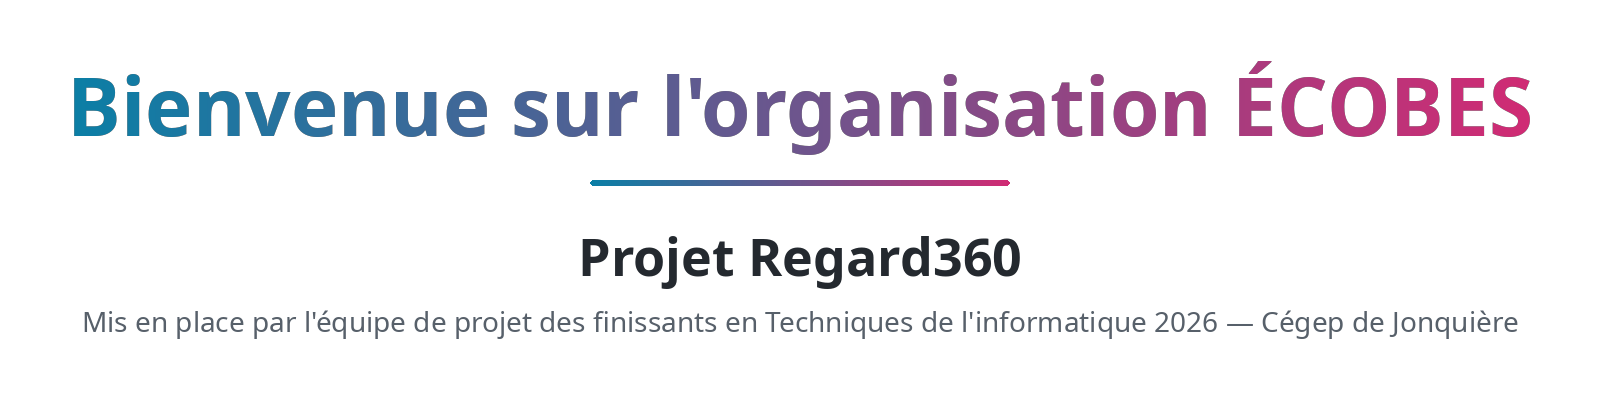
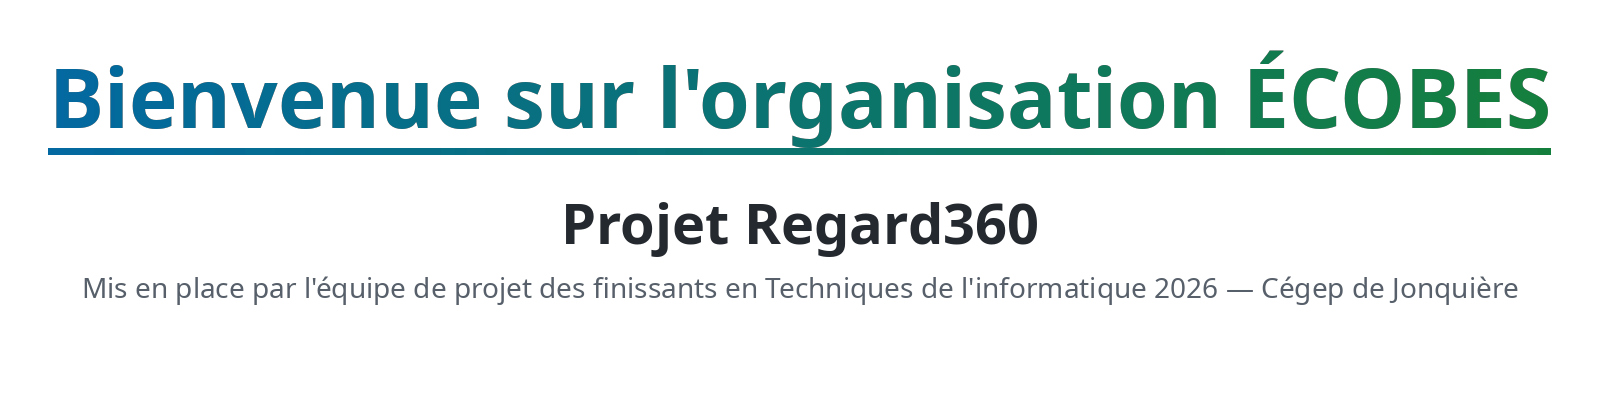
.

Changed region(s): [[0.0312, 0.1238, 0.9688, 0.3714], [0.0312, 0.4024, 0.9688, 0.7119], [0.0312, 0.7429, 0.9688, 0.8048]]

diff --git a/profile/README.md b/profile/README.md
@@ -16,10 +16,10 @@ Ici, vous trouverez les différents projets qui font partie de cette organisatio
 
 <div align="center">
 
-<a href="https://github.com/CDI-Ecobes/Regard360_Frontend"><img alt="Consulter l'application" src="https://img.shields.io/badge/Application-0fb6d6?style=for-the-badge"></a>
-<a href="https://github.com/CDI-Ecobes/Regard360_Scripts_R"><img alt="Voir comment les données sont traitées" src="https://img.shields.io/badge/Traitement_des_donn%C3%A9es-6e5ca8?style=for-the-badge"></a>
-<a href="https://github.com/CDI-Ecobes/Documentation_Regard360/wiki"><img alt="Lire la documentation, par où commencer" src="https://img.shields.io/badge/Documentation-b84a90?style=for-the-badge"></a>
-<a href="https://github.com/CDI-Ecobes/dev_projet_r360"><img alt="Suivre le travail de l'équipe de projet" src="https://img.shields.io/badge/%C3%89quipe_de_projet-f4569d?style=for-the-badge"></a>
+[![Consulter l'application](https://img.shields.io/badge/Application-0fb6d6?style=for-the-badge)](https://github.com/CDI-Ecobes/Regard360_Frontend)
+[![Voir comment les données sont traitées](https://img.shields.io/badge/Traitement_des_donn%C3%A9es-6e5ca8?style=for-the-badge)](https://github.com/CDI-Ecobes/Regard360_Scripts_R)
+[![Lire la documentation, par où commencer](https://img.shields.io/badge/Documentation-b84a90?style=for-the-badge)](https://github.com/CDI-Ecobes/Documentation_Regard360/wiki)
+[![Suivre le travail de l'équipe de projet](https://img.shields.io/badge/%C3%89quipe_de_projet-f4569d?style=for-the-badge)](https://github.com/CDI-Ecobes/dev_projet_r360)
 
 </div>
 
@@ -27,32 +27,13 @@ Ici, vous trouverez les différents projets qui font partie de cette organisatio
 
 <h2 align="center">Les dépôts du projet</h2>
 
-<table width="100%">
-  <thead>
-    <tr>
-      <th width="32%" align="left">Dépôt</th>
-      <th align="left">Rôle</th>
-    </tr>
-  </thead>
-  <tbody>
-    <tr>
-      <td><a href="https://github.com/CDI-Ecobes/Regard360_Frontend"><strong>Regard360_Frontend</strong></a></td>
-      <td>L'application Shiny — la branche <code>Dev</code> se déploie automatiquement en environnement de test</td>
-    </tr>
-    <tr>
-      <td><a href="https://github.com/CDI-Ecobes/Regard360_Scripts_R"><strong>Regard360_Scripts_R</strong></a></td>
-      <td>Les scripts R qui préparent et transforment les données de l'application</td>
-    </tr>
-    <tr>
-      <td><a href="https://github.com/CDI-Ecobes/Documentation_Regard360"><strong>Documentation_Regard360</strong></a></td>
-      <td>La documentation du projet — elle se trouve dans l'onglet Wiki du dépôt</td>
-    </tr>
-    <tr>
-      <td><a href="https://github.com/CDI-Ecobes/dev_projet_r360"><strong>dev_projet_r360</strong></a></td>
-      <td>Le dépôt de travail de l'équipe DICJ et sa nomenclature des branches</td>
-    </tr>
-  </tbody>
-</table>
+[![Regard360_Frontend — L'application Shiny](assets/cartes/carte-frontend.png)](https://github.com/CDI-Ecobes/Regard360_Frontend)
+
+[![Regard360_Scripts_R — Les scripts R de traitement des données](assets/cartes/carte-scripts.png)](https://github.com/CDI-Ecobes/Regard360_Scripts_R)
+
+[![Documentation_Regard360 — La documentation du projet](assets/cartes/carte-documentation.png)](https://github.com/CDI-Ecobes/Documentation_Regard360)
+
+[![dev_projet_r360 — Le dépôt de travail de l'équipe](assets/cartes/carte-dev-projet.png)](https://github.com/CDI-Ecobes/dev_projet_r360)
 
 ---
 
@@ -60,28 +41,24 @@ Ici, vous trouverez les différents projets qui font partie de cette organisatio
 
 <p align="center"><em>Ces dépôts servent aux essais et à l'apprentissage de l'équipe de développement.</em></p>
 
-<table width="100%">
-  <thead>
-    <tr>
-      <th width="32%" align="left">Dépôt</th>
-      <th align="left">Rôle</th>
-    </tr>
-  </thead>
-  <tbody>
-    <tr>
-      <td><a href="https://github.com/CDI-Ecobes/Regard360_Frontend_Test"><strong>Regard360_Frontend_Test</strong></a></td>
-      <td>Copie de test de l'application, créée pour des essais sur Shiny</td>
-    </tr>
-    <tr>
-      <td><a href="https://github.com/CDI-Ecobes/R360_environnement_test"><strong>R360_environnement_test</strong></a></td>
-      <td>Dépôt d'apprentissage GitHub de l'équipe, conservé pour référence</td>
-    </tr>
-    <tr>
-      <td><a href="https://github.com/CDI-Ecobes/TEST-ECOBES-DEV"><strong>TEST-ECOBES-DEV</strong></a></td>
-      <td>Bac à sable de tests de scripts — rien n'en est déployé</td>
-    </tr>
-  </tbody>
-</table>
+[![Regard360_Frontend_Test — Copie de test de l'application](assets/cartes/carte-frontend-test.png)](https://github.com/CDI-Ecobes/Regard360_Frontend_Test)
+
+[![R360_environnement_test — Dépôt d'apprentissage GitHub](assets/cartes/carte-environnement-test.png)](https://github.com/CDI-Ecobes/R360_environnement_test)
+
+[![TEST-ECOBES-DEV — Bac à sable de tests de scripts](assets/cartes/carte-test-ecobes-dev.png)](https://github.com/CDI-Ecobes/TEST-ECOBES-DEV)
+
+<details>
+<summary>Liste des dépôts en format texte</summary>
+
+- [Regard360_Frontend](https://github.com/CDI-Ecobes/Regard360_Frontend) — L'application Shiny ; la branche `Dev` se déploie automatiquement en environnement de test
+- [Regard360_Scripts_R](https://github.com/CDI-Ecobes/Regard360_Scripts_R) — Les scripts R qui préparent et transforment les données de l'application
+- [Documentation_Regard360](https://github.com/CDI-Ecobes/Documentation_Regard360) — La documentation du projet, dans l'onglet Wiki du dépôt
+- [dev_projet_r360](https://github.com/CDI-Ecobes/dev_projet_r360) — Le dépôt de travail de l'équipe DICJ et sa nomenclature des branches
+- [Regard360_Frontend_Test](https://github.com/CDI-Ecobes/Regard360_Frontend_Test) — Copie de test de l'application, créée pour des essais sur Shiny
+- [R360_environnement_test](https://github.com/CDI-Ecobes/R360_environnement_test) — Dépôt d'apprentissage GitHub de l'équipe, conservé pour référence
+- [TEST-ECOBES-DEV](https://github.com/CDI-Ecobes/TEST-ECOBES-DEV) — Bac à sable de tests de scripts ; rien n'en est déployé
+
+</details>
 
 ---
 
